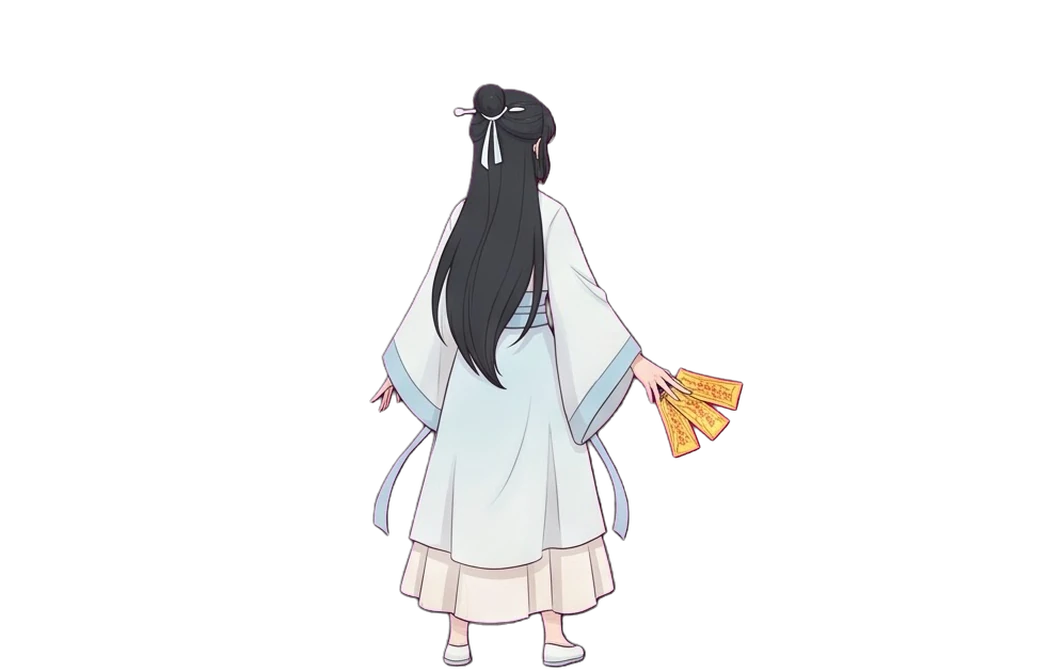
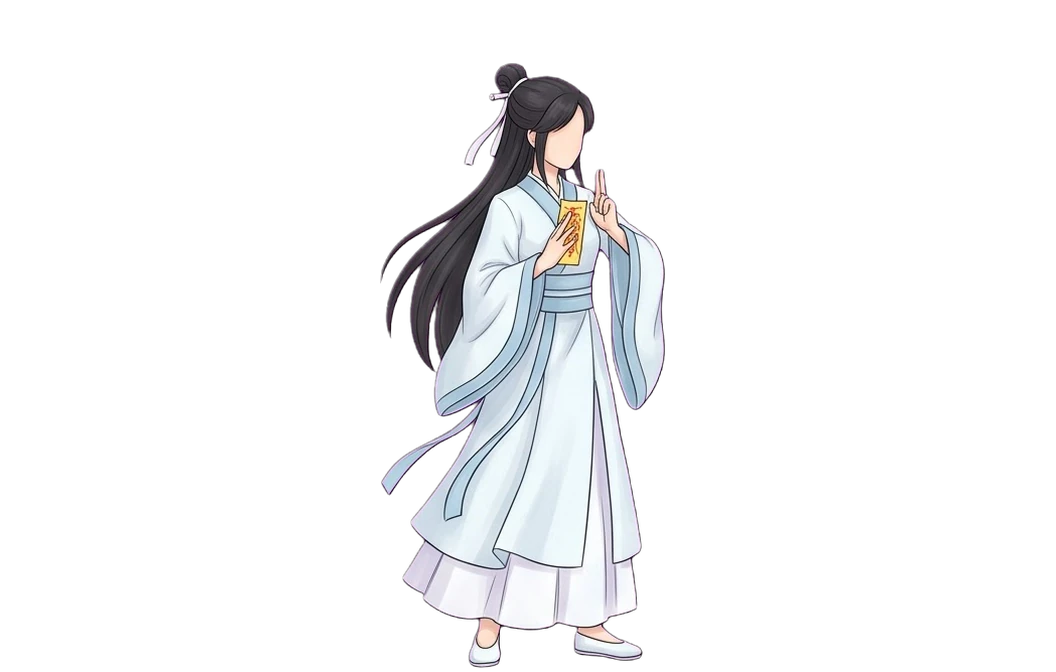
最終版150:素白女法修第4、9格換用另一張圖,丹修第1、7格用原圖
Claude-Session: https://claude.ai/code/session_01Eudv1bj25nFF4NszqJcvVs

Changed region(s): [[0.3438, 0.0938, 0.7188, 1.0]]

diff --git a/index.html b/index.html
@@ -16447,7 +16447,7 @@ window.SFX = (() => {
 })();
 
 /* v115 主角背面戰鬥動作圖(重要戰鬥用) */
-window.BP114 = {"F_o1_1": "assets/BP/F_o1_1.webp?v=845711f1", "F_o1_2": "assets/BP/F_o1_2.webp?v=63e0ea8a", "F_o1_3": "assets/BP/F_o1_3.webp?v=4c8fedf0", "F_o1_4": "assets/BP/F_o1_4.webp?v=2d3a9938", "F_o1_5": "assets/BP/F_o1_5.webp?v=39089390", "F_o1_6": "assets/BP/F_o1_6.webp?v=665fdf49", "F_o1_7": "assets/BP/F_o1_7.webp?v=a421ed48", "F_o1_8": "assets/BP/F_o1_8.webp?v=46d02e9f", "F_o1_9": "assets/BP/F_o1_9.webp?v=71e7e51b", "F_o2_1": "assets/BP/F_o2_1.webp?v=05a69ca3", "F_o2_2": "assets/BP/F_o2_2.webp?v=b4ad1367", "F_o2_3": "assets/BP/F_o2_3.webp?v=5b5c3b9e", "F_o2_4": "assets/BP/F_o2_4.webp?v=675eb247", "F_o2_5": "assets/BP/F_o2_5.webp?v=3e6b4256", "F_o2_6": "assets/BP/F_o2_6.webp?v=a83ed8f2", "F_o2_7": "assets/BP/F_o2_7.webp?v=5385903d", "F_o2_8": "assets/BP/F_o2_8.webp?v=813db133", "F_o2_9": "assets/BP/F_o2_9.webp?v=fe97a297", "F_o3_1": "assets/BP/F_o3_1.webp?v=bb0a3107", "F_o3_2": "assets/BP/F_o3_2.webp?v=427aa689", "F_o3_3": "assets/BP/F_o3_3.webp?v=85f7357a", "F_o3_4": "assets/BP/F_o3_4.webp?v=72153950", "F_o3_5": "assets/BP/F_o3_5.webp?v=667aea18", "F_o3_6": "assets/BP/F_o3_6.webp?v=0a9314ea", "F_o3_7": "assets/BP/F_o3_7.webp?v=e8cbb446", "F_o3_8": "assets/BP/F_o3_8.webp?v=b0c55eaa", "F_o3_9": "assets/BP/F_o3_9.webp?v=72363e9e", "F_o4_1": "assets/BP/F_o4_1.webp?v=0a7498b0", "F_o4_2": "assets/BP/F_o4_2.webp?v=0d6c24b1", "F_o4_3": "assets/BP/F_o4_3.webp?v=64f0bf7d", "F_o4_4": "assets/BP/F_o4_4.webp?v=ee9cef42", "F_o4_5": "assets/BP/F_o4_5.webp?v=1df47660", "F_o4_6": "assets/BP/F_o4_6.webp?v=7e19d22c", "F_o4_7": "assets/BP/F_o4_7.webp?v=23243e00", "F_o4_8": "assets/BP/F_o4_8.webp?v=41ff7a57", "F_o4_9": "assets/BP/F_o4_9.webp?v=fdd62696", "F_o5_1": "assets/BP/F_o5_1.webp?v=1acbb409", "F_o5_2": "assets/BP/F_o5_2.webp?v=057ef934", "F_o5_3": "assets/BP/F_o5_3.webp?v=8cf69a7a", "F_o5_4": "assets/BP/F_o5_4.webp?v=83b6597d", "F_o5_5": "assets/BP/F_o5_5.webp?v=2527e5a5", "F_o5_6": "assets/BP/F_o5_6.webp?v=67d0d5f1", "F_o5_7": "assets/BP/F_o5_7.webp?v=4fe41938", "F_o5_8": "assets/BP/F_o5_8.webp?v=a7d74ed8", "F_o5_9": "assets/BP/F_o5_9.webp?v=3954470c", "M_o1_1": "assets/BP/M_o1_1.webp?v=2560faa7", "M_o1_2": "assets/BP/M_o1_2.webp?v=7ad66686", "M_o1_3": "assets/BP/M_o1_3.webp?v=49844ea7", "M_o1_4": "assets/BP/M_o1_4.webp?v=e28f9fdc", "M_o1_5": "assets/BP/M_o1_5.webp?v=b9ccd80b", "M_o1_6": "assets/BP/M_o1_6.webp?v=e9083ee8", "M_o1_7": "assets/BP/M_o1_7.webp?v=58ceecdd", "M_o1_8": "assets/BP/M_o1_8.webp?v=cfe7d049", "M_o1_9": "assets/BP/M_o1_9.webp?v=c5d17e5e", "M_o2_1": "assets/BP/M_o2_1.webp?v=a457cddd", "M_o2_2": "assets/BP/M_o2_2.webp?v=5350cd1f", "M_o2_3": "assets/BP/M_o2_3.webp?v=9923ac77", "M_o2_4": "assets/BP/M_o2_4.webp?v=54d8b4cd", "M_o2_5": "assets/BP/M_o2_5.webp?v=7b33d424", "M_o2_6": "assets/BP/M_o2_6.webp?v=99974fd4", "M_o2_7": "assets/BP/M_o2_7.webp?v=9e35d3f7", "M_o2_8": "assets/BP/M_o2_8.webp?v=010e2f77", "M_o2_9": "assets/BP/M_o2_9.webp?v=9e51febd", "M_o1_magic_1": "assets/BP/M_o1_magic_1.webp?v=9b4973c3", "M_o1_magic_2": "assets/BP/M_o1_magic_2.webp?v=b248a865", "M_o1_magic_3": "assets/BP/M_o1_magic_3.webp?v=a3cf11af", "M_o1_magic_4": "assets/BP/M_o1_magic_4.webp?v=96a407e8", "M_o1_magic_5": "assets/BP/M_o1_magic_5.webp?v=75029708", "M_o1_magic_6": "assets/BP/M_o1_magic_6.webp?v=83065bfb", "M_o1_magic_7": "assets/BP/M_o1_magic_7.webp?v=4a26d8c2", "M_o1_magic_8": "assets/BP/M_o1_magic_8.webp?v=c3b4efe4", "M_o1_magic_9": "assets/BP/M_o1_magic_9.webp?v=d9af5614", "M_o1_body_1": "assets/BP/M_o1_body_1.webp?v=51611a84", "M_o1_body_2": "assets/BP/M_o1_body_2.webp?v=fa383dad", "M_o1_body_3": "assets/BP/M_o1_body_3.webp?v=4a5a0d3d", "M_o1_body_4": "assets/BP/M_o1_body_4.webp?v=1bb56e60", "M_o1_body_5": "assets/BP/M_o1_body_5.webp?v=63e6f99e", "M_o1_body_6": "assets/BP/M_o1_body_6.webp?v=7a0c3fd8", "M_o1_body_7": "assets/BP/M_o1_body_7.webp?v=dbf44c05", "M_o1_body_8": "assets/BP/M_o1_body_8.webp?v=59010254", "M_o1_body_9": "assets/BP/M_o1_body_9.webp?v=07cc84ca", "M_o1_pill_1": "assets/BP/M_o1_pill_1.webp?v=bafb47e1", "M_o1_pill_2": "assets/BP/M_o1_pill_2.webp?v=2c96254e", "M_o1_pill_3": "assets/BP/M_o1_pill_3.webp?v=09680974", "M_o1_pill_4": "assets/BP/M_o1_pill_4.webp?v=f3386cc3", "M_o1_pill_5": "assets/BP/M_o1_pill_5.webp?v=e1a1df88", "M_o1_pill_6": "assets/BP/M_o1_pill_6.webp?v=20603365", "M_o1_pill_7": "assets/BP/M_o1_pill_7.webp?v=f39dd028", "M_o1_pill_8": "assets/BP/M_o1_pill_8.webp?v=2e37c6f2", "M_o1_pill_9": "assets/BP/M_o1_pill_9.webp?v=6862b8e0", "talisman": "assets/BP/talisman.webp?v=b202c5a1", "F_o2_magic_1": "assets/BP/F_o2_magic_1.webp?v=24cd2fa4", "F_o2_magic_2": "assets/BP/F_o2_magic_2.webp?v=f2cd1bd5", "F_o2_magic_3": "assets/BP/F_o2_magic_3.webp?v=6224205b", "F_o2_magic_4": "assets/BP/F_o2_magic_4.webp?v=24cd2fa4", "F_o2_magic_5": "assets/BP/F_o2_magic_5.webp?v=3762ae64", "F_o2_magic_6": "assets/BP/F_o2_magic_6.webp?v=7f830eec", "F_o2_magic_7": "assets/BP/F_o2_magic_7.webp?v=a8453654", "F_o2_magic_8": "assets/BP/F_o2_magic_8.webp?v=bc3b7450", "F_o2_magic_9": "assets/BP/F_o2_magic_9.webp?v=24cd2fa4", "F_o2_body_1": "assets/BP/F_o2_body_1.webp?v=5f404494", "F_o2_body_2": "assets/BP/F_o2_body_2.webp?v=2b33f179", "F_o2_body_3": "assets/BP/F_o2_body_3.webp?v=e267bb7e", "F_o2_body_4": "assets/BP/F_o2_body_4.webp?v=194f1df2", "F_o2_body_5": "assets/BP/F_o2_body_5.webp?v=16b5488b", "F_o2_body_6": "assets/BP/F_o2_body_6.webp?v=57681a8b", "F_o2_body_7": "assets/BP/F_o2_body_7.webp?v=c5d7dc68", "F_o2_body_8": "assets/BP/F_o2_body_8.webp?v=81e8ae4e", "F_o2_body_9": "assets/BP/F_o2_body_9.webp?v=be439696", "F_o2_pill_1": "assets/BP/F_o2_pill_1.webp?v=89d49626", "F_o2_pill_2": "assets/BP/F_o2_pill_2.webp?v=aba871cb", "F_o2_pill_3": "assets/BP/F_o2_pill_3.webp?v=d0c65f52", "F_o2_pill_4": "assets/BP/F_o2_pill_4.webp?v=d20d3fed", "F_o2_pill_5": "assets/BP/F_o2_pill_5.webp?v=432f8bd7", "F_o2_pill_6": "assets/BP/F_o2_pill_6.webp?v=dc59bf32", "F_o2_pill_7": "assets/BP/F_o2_pill_7.webp?v=432f8bd7", "F_o2_pill_8": "assets/BP/F_o2_pill_8.webp?v=bb5c0d3f", "F_o2_pill_9": "assets/BP/F_o2_pill_9.webp?v=89d49626", "M_o2_magic_1": "assets/BP/M_o2_magic_1.webp?v=4a8fd103", "M_o2_magic_2": "assets/BP/M_o2_magic_2.webp?v=d6013535", "M_o2_magic_3": "assets/BP/M_o2_magic_3.webp?v=74a7e696", "M_o2_magic_4": "assets/BP/M_o2_magic_4.webp?v=e2f3ec60", "M_o2_magic_5": "assets/BP/M_o2_magic_5.webp?v=bae868da", "M_o2_magic_6": "assets/BP/M_o2_magic_6.webp?v=7ab92120", "M_o2_magic_7": "assets/BP/M_o2_magic_7.webp?v=78cd64ee", "M_o2_magic_8": "assets/BP/M_o2_magic_8.webp?v=55832c1b", "M_o2_magic_9": "assets/BP/M_o2_magic_9.webp?v=bc44d860", "M_o2_body_1": "assets/BP/M_o2_body_1.webp?v=484100ed", "M_o2_body_2": "assets/BP/M_o2_body_2.webp?v=7dbc0dc8", "M_o2_body_3": "assets/BP/M_o2_body_3.webp?v=711ef4b6", "M_o2_body_4": "assets/BP/M_o2_body_4.webp?v=cddb9ef8", "M_o2_body_5": "assets/BP/M_o2_body_5.webp?v=457de7b6", "M_o2_body_6": "assets/BP/M_o2_body_6.webp?v=f4b4b34c", "M_o2_body_7": "assets/BP/M_o2_body_7.webp?v=cacd31ef", "M_o2_body_8": "assets/BP/M_o2_body_8.webp?v=15455647", "M_o2_body_9": "assets/BP/M_o2_body_9.webp?v=ec410993", "M_o2_pill_1": "assets/BP/M_o2_pill_1.webp?v=9b587cbf", "M_o2_pill_2": "assets/BP/M_o2_pill_2.webp?v=22b69cdd", "M_o2_pill_3": "assets/BP/M_o2_pill_3.webp?v=5e98dcf2", "M_o2_pill_4": "assets/BP/M_o2_pill_4.webp?v=c006b548", "M_o2_pill_5": "assets/BP/M_o2_pill_5.webp?v=3cf8b6cb", "M_o2_pill_6": "assets/BP/M_o2_pill_6.webp?v=08623c24", "M_o2_pill_7": "assets/BP/M_o2_pill_7.webp?v=265186db", "M_o2_pill_8": "assets/BP/M_o2_pill_8.webp?v=fe8d85a1", "M_o2_pill_9": "assets/BP/M_o2_pill_9.webp?v=fe747ce7", "F_o1_magic_1": "assets/BP/F_o1_magic_1.webp?v=4e5f8469", "F_o1_magic_2": "assets/BP/F_o1_magic_2.webp?v=9f7adbe3", "F_o1_magic_3": "assets/BP/F_o1_magic_3.webp?v=0d4b2cfa", "F_o1_magic_4": "assets/BP/F_o1_magic_4.webp?v=921b38bf", "F_o1_magic_5": "assets/BP/F_o1_magic_5.webp?v=bb66a925", "F_o1_magic_6": "assets/BP/F_o1_magic_6.webp?v=0c679aaa", "F_o1_magic_7": "assets/BP/F_o1_magic_7.webp?v=405f2feb", "F_o1_magic_8": "assets/BP/F_o1_magic_8.webp?v=e8c2a360", "F_o1_magic_9": "assets/BP/F_o1_magic_9.webp?v=a5db0544", "F_o1_body_1": "assets/BP/F_o1_body_1.webp?v=6384018e", "F_o1_body_2": "assets/BP/F_o1_body_2.webp?v=782cd1f3", "F_o1_body_3": "assets/BP/F_o1_body_3.webp?v=c7f05cf4", "F_o1_body_4": "assets/BP/F_o1_body_4.webp?v=e5a407c6", "F_o1_body_5": "assets/BP/F_o1_body_5.webp?v=98a64082", "F_o1_body_6": "assets/BP/F_o1_body_6.webp?v=4a6a5eba", "F_o1_body_7": "assets/BP/F_o1_body_7.webp?v=207c46c0", "F_o1_body_8": "assets/BP/F_o1_body_8.webp?v=e3b18361", "F_o1_body_9": "assets/BP/F_o1_body_9.webp?v=32a5489d", "F_o1_pill_1": "assets/BP/F_o1_pill_1.webp?v=a21e1df8", "F_o1_pill_2": "assets/BP/F_o1_pill_2.webp?v=2b47f0c6", "F_o1_pill_3": "assets/BP/F_o1_pill_3.webp?v=9d137eaa", "F_o1_pill_4": "assets/BP/F_o1_pill_4.webp?v=b9398538", "F_o1_pill_5": "assets/BP/F_o1_pill_5.webp?v=dde40ab4", "F_o1_pill_6": "assets/BP/F_o1_pill_6.webp?v=2afb540c", "F_o1_pill_7": "assets/BP/F_o1_pill_7.webp?v=b9398538", "F_o1_pill_8": "assets/BP/F_o1_pill_8.webp?v=584cd597", "F_o1_pill_9": "assets/BP/F_o1_pill_9.webp?v=6e638b49", "M_mc_1": "assets/BP/M_mc_1.webp?v=03194b27", "M_mc_2": "assets/BP/M_mc_2.webp?v=1593c4a8", "M_mc_3": "assets/BP/M_mc_3.webp?v=78d98d8f", "M_mc_4": "assets/BP/M_mc_4.webp?v=11a84b65", "M_mc_5": "assets/BP/M_mc_5.webp?v=c62eccf8", "M_mc_6": "assets/BP/M_mc_6.webp?v=41750a69", "M_mc_7": "assets/BP/M_mc_7.webp?v=6e57e8e6", "M_mc_8": "assets/BP/M_mc_8.webp?v=5394f08c", "M_mc_9": "assets/BP/M_mc_9.webp?v=9cf6a34d", "M_o3_1": "assets/BP/M_o3_1.webp?v=911e0148", "M_o3_2": "assets/BP/M_o3_2.webp?v=d49ff3b7", "M_o3_3": "assets/BP/M_o3_3.webp?v=70fd962f", "M_o3_4": "assets/BP/M_o3_4.webp?v=10baf48d", "M_o3_5": "assets/BP/M_o3_5.webp?v=64e0e325", "M_o3_6": "assets/BP/M_o3_6.webp?v=c2438bd5", "M_o3_7": "assets/BP/M_o3_7.webp?v=a6ce3d23", "M_o3_8": "assets/BP/M_o3_8.webp?v=c9752f83", "M_o3_9": "assets/BP/M_o3_9.webp?v=a1af0ada", "M_o4_1": "assets/BP/M_o4_1.webp?v=43ac3c38", "M_o4_2": "assets/BP/M_o4_2.webp?v=f512e93b", "M_o4_3": "assets/BP/M_o4_3.webp?v=651f67c3", "M_o4_4": "assets/BP/M_o4_4.webp?v=5e0b1883", "M_o4_5": "assets/BP/M_o4_5.webp?v=9e77acc4", "M_o4_6": "assets/BP/M_o4_6.webp?v=6ed9a474", "M_o4_7": "assets/BP/M_o4_7.webp?v=5427d33a", "M_o4_8": "assets/BP/M_o4_8.webp?v=c0be0eb9", "M_o4_9": "assets/BP/M_o4_9.webp?v=22d5c0e4", "M_o5_1": "assets/BP/M_o5_1.webp?v=2e970d7d", "M_o5_2": "assets/BP/M_o5_2.webp?v=ded257bf", "M_o5_3": "assets/BP/M_o5_3.webp?v=4af86b3b", "M_o5_4": "assets/BP/M_o5_4.webp?v=10635597", "M_o5_5": "assets/BP/M_o5_5.webp?v=b3438832", "M_o5_6": "assets/BP/M_o5_6.webp?v=132388bd", "M_o5_7": "assets/BP/M_o5_7.webp?v=24d3b448", "M_o5_8": "assets/BP/M_o5_8.webp?v=68e0ee4d", "M_o5_9": "assets/BP/M_o5_9.webp?v=ceae38ce"};
+window.BP114 = {"F_o1_1": "assets/BP/F_o1_1.webp?v=845711f1", "F_o1_2": "assets/BP/F_o1_2.webp?v=63e0ea8a", "F_o1_3": "assets/BP/F_o1_3.webp?v=4c8fedf0", "F_o1_4": "assets/BP/F_o1_4.webp?v=2d3a9938", "F_o1_5": "assets/BP/F_o1_5.webp?v=39089390", "F_o1_6": "assets/BP/F_o1_6.webp?v=665fdf49", "F_o1_7": "assets/BP/F_o1_7.webp?v=a421ed48", "F_o1_8": "assets/BP/F_o1_8.webp?v=46d02e9f", "F_o1_9": "assets/BP/F_o1_9.webp?v=71e7e51b", "F_o2_1": "assets/BP/F_o2_1.webp?v=05a69ca3", "F_o2_2": "assets/BP/F_o2_2.webp?v=b4ad1367", "F_o2_3": "assets/BP/F_o2_3.webp?v=5b5c3b9e", "F_o2_4": "assets/BP/F_o2_4.webp?v=675eb247", "F_o2_5": "assets/BP/F_o2_5.webp?v=3e6b4256", "F_o2_6": "assets/BP/F_o2_6.webp?v=a83ed8f2", "F_o2_7": "assets/BP/F_o2_7.webp?v=5385903d", "F_o2_8": "assets/BP/F_o2_8.webp?v=813db133", "F_o2_9": "assets/BP/F_o2_9.webp?v=fe97a297", "F_o3_1": "assets/BP/F_o3_1.webp?v=bb0a3107", "F_o3_2": "assets/BP/F_o3_2.webp?v=427aa689", "F_o3_3": "assets/BP/F_o3_3.webp?v=85f7357a", "F_o3_4": "assets/BP/F_o3_4.webp?v=72153950", "F_o3_5": "assets/BP/F_o3_5.webp?v=667aea18", "F_o3_6": "assets/BP/F_o3_6.webp?v=0a9314ea", "F_o3_7": "assets/BP/F_o3_7.webp?v=e8cbb446", "F_o3_8": "assets/BP/F_o3_8.webp?v=b0c55eaa", "F_o3_9": "assets/BP/F_o3_9.webp?v=72363e9e", "F_o4_1": "assets/BP/F_o4_1.webp?v=0a7498b0", "F_o4_2": "assets/BP/F_o4_2.webp?v=0d6c24b1", "F_o4_3": "assets/BP/F_o4_3.webp?v=64f0bf7d", "F_o4_4": "assets/BP/F_o4_4.webp?v=ee9cef42", "F_o4_5": "assets/BP/F_o4_5.webp?v=1df47660", "F_o4_6": "assets/BP/F_o4_6.webp?v=7e19d22c", "F_o4_7": "assets/BP/F_o4_7.webp?v=23243e00", "F_o4_8": "assets/BP/F_o4_8.webp?v=41ff7a57", "F_o4_9": "assets/BP/F_o4_9.webp?v=fdd62696", "F_o5_1": "assets/BP/F_o5_1.webp?v=1acbb409", "F_o5_2": "assets/BP/F_o5_2.webp?v=057ef934", "F_o5_3": "assets/BP/F_o5_3.webp?v=8cf69a7a", "F_o5_4": "assets/BP/F_o5_4.webp?v=83b6597d", "F_o5_5": "assets/BP/F_o5_5.webp?v=2527e5a5", "F_o5_6": "assets/BP/F_o5_6.webp?v=67d0d5f1", "F_o5_7": "assets/BP/F_o5_7.webp?v=4fe41938", "F_o5_8": "assets/BP/F_o5_8.webp?v=a7d74ed8", "F_o5_9": "assets/BP/F_o5_9.webp?v=3954470c", "M_o1_1": "assets/BP/M_o1_1.webp?v=2560faa7", "M_o1_2": "assets/BP/M_o1_2.webp?v=7ad66686", "M_o1_3": "assets/BP/M_o1_3.webp?v=49844ea7", "M_o1_4": "assets/BP/M_o1_4.webp?v=e28f9fdc", "M_o1_5": "assets/BP/M_o1_5.webp?v=b9ccd80b", "M_o1_6": "assets/BP/M_o1_6.webp?v=e9083ee8", "M_o1_7": "assets/BP/M_o1_7.webp?v=58ceecdd", "M_o1_8": "assets/BP/M_o1_8.webp?v=cfe7d049", "M_o1_9": "assets/BP/M_o1_9.webp?v=c5d17e5e", "M_o2_1": "assets/BP/M_o2_1.webp?v=a457cddd", "M_o2_2": "assets/BP/M_o2_2.webp?v=5350cd1f", "M_o2_3": "assets/BP/M_o2_3.webp?v=9923ac77", "M_o2_4": "assets/BP/M_o2_4.webp?v=54d8b4cd", "M_o2_5": "assets/BP/M_o2_5.webp?v=7b33d424", "M_o2_6": "assets/BP/M_o2_6.webp?v=99974fd4", "M_o2_7": "assets/BP/M_o2_7.webp?v=9e35d3f7", "M_o2_8": "assets/BP/M_o2_8.webp?v=010e2f77", "M_o2_9": "assets/BP/M_o2_9.webp?v=9e51febd", "M_o1_magic_1": "assets/BP/M_o1_magic_1.webp?v=9b4973c3", "M_o1_magic_2": "assets/BP/M_o1_magic_2.webp?v=b248a865", "M_o1_magic_3": "assets/BP/M_o1_magic_3.webp?v=a3cf11af", "M_o1_magic_4": "assets/BP/M_o1_magic_4.webp?v=96a407e8", "M_o1_magic_5": "assets/BP/M_o1_magic_5.webp?v=75029708", "M_o1_magic_6": "assets/BP/M_o1_magic_6.webp?v=83065bfb", "M_o1_magic_7": "assets/BP/M_o1_magic_7.webp?v=4a26d8c2", "M_o1_magic_8": "assets/BP/M_o1_magic_8.webp?v=c3b4efe4", "M_o1_magic_9": "assets/BP/M_o1_magic_9.webp?v=d9af5614", "M_o1_body_1": "assets/BP/M_o1_body_1.webp?v=51611a84", "M_o1_body_2": "assets/BP/M_o1_body_2.webp?v=fa383dad", "M_o1_body_3": "assets/BP/M_o1_body_3.webp?v=4a5a0d3d", "M_o1_body_4": "assets/BP/M_o1_body_4.webp?v=1bb56e60", "M_o1_body_5": "assets/BP/M_o1_body_5.webp?v=63e6f99e", "M_o1_body_6": "assets/BP/M_o1_body_6.webp?v=7a0c3fd8", "M_o1_body_7": "assets/BP/M_o1_body_7.webp?v=dbf44c05", "M_o1_body_8": "assets/BP/M_o1_body_8.webp?v=59010254", "M_o1_body_9": "assets/BP/M_o1_body_9.webp?v=07cc84ca", "M_o1_pill_1": "assets/BP/M_o1_pill_1.webp?v=bafb47e1", "M_o1_pill_2": "assets/BP/M_o1_pill_2.webp?v=2c96254e", "M_o1_pill_3": "assets/BP/M_o1_pill_3.webp?v=09680974", "M_o1_pill_4": "assets/BP/M_o1_pill_4.webp?v=f3386cc3", "M_o1_pill_5": "assets/BP/M_o1_pill_5.webp?v=e1a1df88", "M_o1_pill_6": "assets/BP/M_o1_pill_6.webp?v=20603365", "M_o1_pill_7": "assets/BP/M_o1_pill_7.webp?v=f39dd028", "M_o1_pill_8": "assets/BP/M_o1_pill_8.webp?v=2e37c6f2", "M_o1_pill_9": "assets/BP/M_o1_pill_9.webp?v=6862b8e0", "talisman": "assets/BP/talisman.webp?v=b202c5a1", "F_o2_magic_1": "assets/BP/F_o2_magic_1.webp?v=24cd2fa4", "F_o2_magic_2": "assets/BP/F_o2_magic_2.webp?v=f2cd1bd5", "F_o2_magic_3": "assets/BP/F_o2_magic_3.webp?v=6224205b", "F_o2_magic_4": "assets/BP/F_o2_magic_4.webp?v=43360528", "F_o2_magic_5": "assets/BP/F_o2_magic_5.webp?v=3762ae64", "F_o2_magic_6": "assets/BP/F_o2_magic_6.webp?v=7f830eec", "F_o2_magic_7": "assets/BP/F_o2_magic_7.webp?v=a8453654", "F_o2_magic_8": "assets/BP/F_o2_magic_8.webp?v=bc3b7450", "F_o2_magic_9": "assets/BP/F_o2_magic_9.webp?v=bcd08279", "F_o2_body_1": "assets/BP/F_o2_body_1.webp?v=5f404494", "F_o2_body_2": "assets/BP/F_o2_body_2.webp?v=2b33f179", "F_o2_body_3": "assets/BP/F_o2_body_3.webp?v=e267bb7e", "F_o2_body_4": "assets/BP/F_o2_body_4.webp?v=194f1df2", "F_o2_body_5": "assets/BP/F_o2_body_5.webp?v=16b5488b", "F_o2_body_6": "assets/BP/F_o2_body_6.webp?v=57681a8b", "F_o2_body_7": "assets/BP/F_o2_body_7.webp?v=c5d7dc68", "F_o2_body_8": "assets/BP/F_o2_body_8.webp?v=81e8ae4e", "F_o2_body_9": "assets/BP/F_o2_body_9.webp?v=be439696", "F_o2_pill_1": "assets/BP/F_o2_pill_1.webp?v=d188d30b", "F_o2_pill_2": "assets/BP/F_o2_pill_2.webp?v=aba871cb", "F_o2_pill_3": "assets/BP/F_o2_pill_3.webp?v=d0c65f52", "F_o2_pill_4": "assets/BP/F_o2_pill_4.webp?v=d20d3fed", "F_o2_pill_5": "assets/BP/F_o2_pill_5.webp?v=432f8bd7", "F_o2_pill_6": "assets/BP/F_o2_pill_6.webp?v=dc59bf32", "F_o2_pill_7": "assets/BP/F_o2_pill_7.webp?v=b4bfcd4c", "F_o2_pill_8": "assets/BP/F_o2_pill_8.webp?v=bb5c0d3f", "F_o2_pill_9": "assets/BP/F_o2_pill_9.webp?v=89d49626", "M_o2_magic_1": "assets/BP/M_o2_magic_1.webp?v=4a8fd103", "M_o2_magic_2": "assets/BP/M_o2_magic_2.webp?v=d6013535", "M_o2_magic_3": "assets/BP/M_o2_magic_3.webp?v=74a7e696", "M_o2_magic_4": "assets/BP/M_o2_magic_4.webp?v=e2f3ec60", "M_o2_magic_5": "assets/BP/M_o2_magic_5.webp?v=bae868da", "M_o2_magic_6": "assets/BP/M_o2_magic_6.webp?v=7ab92120", "M_o2_magic_7": "assets/BP/M_o2_magic_7.webp?v=78cd64ee", "M_o2_magic_8": "assets/BP/M_o2_magic_8.webp?v=55832c1b", "M_o2_magic_9": "assets/BP/M_o2_magic_9.webp?v=bc44d860", "M_o2_body_1": "assets/BP/M_o2_body_1.webp?v=484100ed", "M_o2_body_2": "assets/BP/M_o2_body_2.webp?v=7dbc0dc8", "M_o2_body_3": "assets/BP/M_o2_body_3.webp?v=711ef4b6", "M_o2_body_4": "assets/BP/M_o2_body_4.webp?v=cddb9ef8", "M_o2_body_5": "assets/BP/M_o2_body_5.webp?v=457de7b6", "M_o2_body_6": "assets/BP/M_o2_body_6.webp?v=f4b4b34c", "M_o2_body_7": "assets/BP/M_o2_body_7.webp?v=cacd31ef", "M_o2_body_8": "assets/BP/M_o2_body_8.webp?v=15455647", "M_o2_body_9": "assets/BP/M_o2_body_9.webp?v=ec410993", "M_o2_pill_1": "assets/BP/M_o2_pill_1.webp?v=9b587cbf", "M_o2_pill_2": "assets/BP/M_o2_pill_2.webp?v=22b69cdd", "M_o2_pill_3": "assets/BP/M_o2_pill_3.webp?v=5e98dcf2", "M_o2_pill_4": "assets/BP/M_o2_pill_4.webp?v=c006b548", "M_o2_pill_5": "assets/BP/M_o2_pill_5.webp?v=3cf8b6cb", "M_o2_pill_6": "assets/BP/M_o2_pill_6.webp?v=08623c24", "M_o2_pill_7": "assets/BP/M_o2_pill_7.webp?v=265186db", "M_o2_pill_8": "assets/BP/M_o2_pill_8.webp?v=fe8d85a1", "M_o2_pill_9": "assets/BP/M_o2_pill_9.webp?v=fe747ce7", "F_o1_magic_1": "assets/BP/F_o1_magic_1.webp?v=4e5f8469", "F_o1_magic_2": "assets/BP/F_o1_magic_2.webp?v=9f7adbe3", "F_o1_magic_3": "assets/BP/F_o1_magic_3.webp?v=0d4b2cfa", "F_o1_magic_4": "assets/BP/F_o1_magic_4.webp?v=921b38bf", "F_o1_magic_5": "assets/BP/F_o1_magic_5.webp?v=bb66a925", "F_o1_magic_6": "assets/BP/F_o1_magic_6.webp?v=0c679aaa", "F_o1_magic_7": "assets/BP/F_o1_magic_7.webp?v=405f2feb", "F_o1_magic_8": "assets/BP/F_o1_magic_8.webp?v=e8c2a360", "F_o1_magic_9": "assets/BP/F_o1_magic_9.webp?v=a5db0544", "F_o1_body_1": "assets/BP/F_o1_body_1.webp?v=6384018e", "F_o1_body_2": "assets/BP/F_o1_body_2.webp?v=782cd1f3", "F_o1_body_3": "assets/BP/F_o1_body_3.webp?v=c7f05cf4", "F_o1_body_4": "assets/BP/F_o1_body_4.webp?v=e5a407c6", "F_o1_body_5": "assets/BP/F_o1_body_5.webp?v=98a64082", "F_o1_body_6": "assets/BP/F_o1_body_6.webp?v=4a6a5eba", "F_o1_body_7": "assets/BP/F_o1_body_7.webp?v=207c46c0", "F_o1_body_8": "assets/BP/F_o1_body_8.webp?v=e3b18361", "F_o1_body_9": "assets/BP/F_o1_body_9.webp?v=32a5489d", "F_o1_pill_1": "assets/BP/F_o1_pill_1.webp?v=a21e1df8", "F_o1_pill_2": "assets/BP/F_o1_pill_2.webp?v=2b47f0c6", "F_o1_pill_3": "assets/BP/F_o1_pill_3.webp?v=9d137eaa", "F_o1_pill_4": "assets/BP/F_o1_pill_4.webp?v=b9398538", "F_o1_pill_5": "assets/BP/F_o1_pill_5.webp?v=dde40ab4", "F_o1_pill_6": "assets/BP/F_o1_pill_6.webp?v=2afb540c", "F_o1_pill_7": "assets/BP/F_o1_pill_7.webp?v=b9398538", "F_o1_pill_8": "assets/BP/F_o1_pill_8.webp?v=584cd597", "F_o1_pill_9": "assets/BP/F_o1_pill_9.webp?v=6e638b49", "M_mc_1": "assets/BP/M_mc_1.webp?v=03194b27", "M_mc_2": "assets/BP/M_mc_2.webp?v=1593c4a8", "M_mc_3": "assets/BP/M_mc_3.webp?v=78d98d8f", "M_mc_4": "assets/BP/M_mc_4.webp?v=11a84b65", "M_mc_5": "assets/BP/M_mc_5.webp?v=c62eccf8", "M_mc_6": "assets/BP/M_mc_6.webp?v=41750a69", "M_mc_7": "assets/BP/M_mc_7.webp?v=6e57e8e6", "M_mc_8": "assets/BP/M_mc_8.webp?v=5394f08c", "M_mc_9": "assets/BP/M_mc_9.webp?v=9cf6a34d", "M_o3_1": "assets/BP/M_o3_1.webp?v=911e0148", "M_o3_2": "assets/BP/M_o3_2.webp?v=d49ff3b7", "M_o3_3": "assets/BP/M_o3_3.webp?v=70fd962f", "M_o3_4": "assets/BP/M_o3_4.webp?v=10baf48d", "M_o3_5": "assets/BP/M_o3_5.webp?v=64e0e325", "M_o3_6": "assets/BP/M_o3_6.webp?v=c2438bd5", "M_o3_7": "assets/BP/M_o3_7.webp?v=a6ce3d23", "M_o3_8": "assets/BP/M_o3_8.webp?v=c9752f83", "M_o3_9": "assets/BP/M_o3_9.webp?v=a1af0ada", "M_o4_1": "assets/BP/M_o4_1.webp?v=43ac3c38", "M_o4_2": "assets/BP/M_o4_2.webp?v=f512e93b", "M_o4_3": "assets/BP/M_o4_3.webp?v=651f67c3", "M_o4_4": "assets/BP/M_o4_4.webp?v=5e0b1883", "M_o4_5": "assets/BP/M_o4_5.webp?v=9e77acc4", "M_o4_6": "assets/BP/M_o4_6.webp?v=6ed9a474", "M_o4_7": "assets/BP/M_o4_7.webp?v=5427d33a", "M_o4_8": "assets/BP/M_o4_8.webp?v=c0be0eb9", "M_o4_9": "assets/BP/M_o4_9.webp?v=22d5c0e4", "M_o5_1": "assets/BP/M_o5_1.webp?v=2e970d7d", "M_o5_2": "assets/BP/M_o5_2.webp?v=ded257bf", "M_o5_3": "assets/BP/M_o5_3.webp?v=4af86b3b", "M_o5_4": "assets/BP/M_o5_4.webp?v=10635597", "M_o5_5": "assets/BP/M_o5_5.webp?v=b3438832", "M_o5_6": "assets/BP/M_o5_6.webp?v=132388bd", "M_o5_7": "assets/BP/M_o5_7.webp?v=24d3b448", "M_o5_8": "assets/BP/M_o5_8.webp?v=68e0ee4d", "M_o5_9": "assets/BP/M_o5_9.webp?v=ceae38ce"};
 window.C1IMG = {"kid_M_1": "assets/C1/kid_M_1.webp?v=d8b61bad", "kid_M_2": "assets/C1/kid_M_2.webp?v=223ee593", "kid_M_3": "assets/C1/kid_M_3.webp?v=5881eb61", "kid_M_4": "assets/C1/kid_M_4.webp?v=061ca303", "kid_M_5": "assets/C1/kid_M_5.webp?v=87fac5f2", "kid_M_6": "assets/C1/kid_M_6.webp?v=58e7c5d9", "kid_F_1": "assets/C1/kid_F_1.webp?v=0c6439db", "kid_F_2": "assets/C1/kid_F_2.webp?v=42142772", "kid_F_3": "assets/C1/kid_F_3.webp?v=24b658a1", "kid_F_4": "assets/C1/kid_F_4.webp?v=c366863a", "kid_F_5": "assets/C1/kid_F_5.webp?v=db0ce5f8", "kid_F_6": "assets/C1/kid_F_6.webp?v=a9f5b729", "kidcp_M_n": "assets/C1/kidcp_M_n.webp?v=521f3561", "kidcp_M_h": "assets/C1/kidcp_M_h.webp?v=cd1e3df5", "kidcp_F_n": "assets/C1/kidcp_F_n.webp?v=3bea50cb", "kidcp_F_h": "assets/C1/kidcp_F_h.webp?v=f98fb38f", "mocp_n": "assets/C1/mocp_n.webp?v=78c3ae52", "mouc": "assets/C1/mouc.webp?v=7543f376"};
 
 /* v122 本命絕學過場特寫 */
